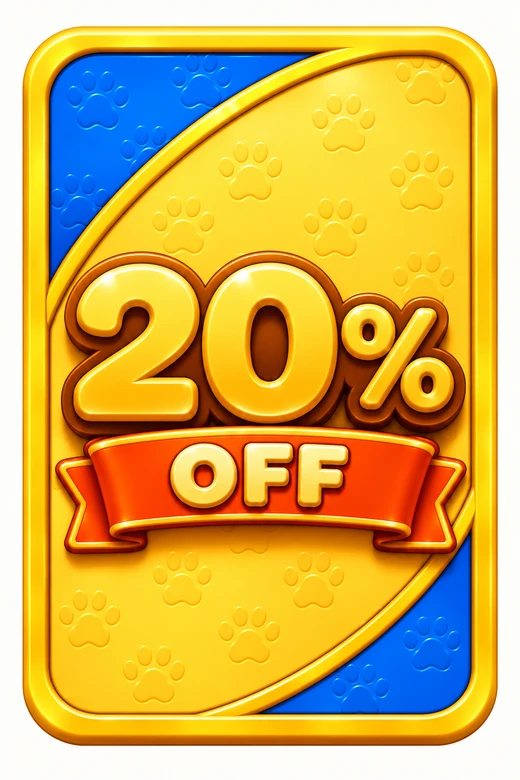
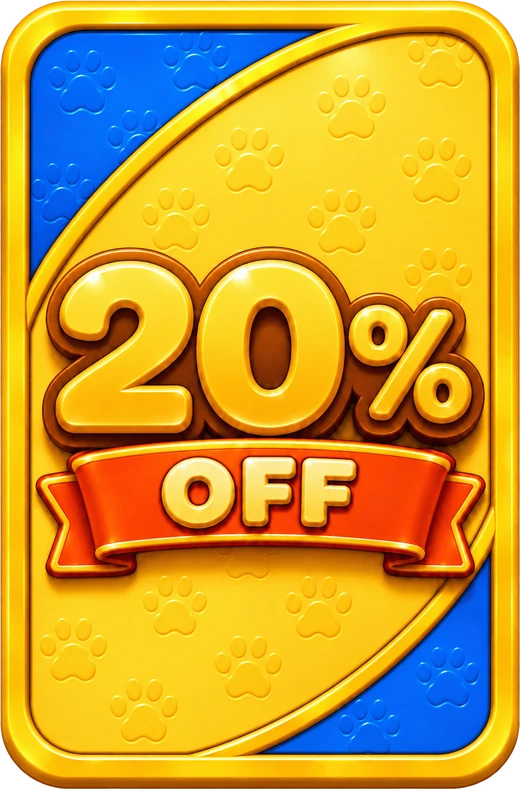
Oferta: planos de 1, 3 e 6 meses (R$ 27/37/47) com selo de cupom aplicado; novas cartas sem fundo

diff --git a/src/components/offer/Paywall.tsx b/src/components/offer/Paywall.tsx
@@ -5,7 +5,7 @@ import { ArrowRight, Check, ChevronDown, ShieldCheck, Tag } from "lucide-react";
 import s from "./Paywall.module.css";
 import { useFunnel } from "@/lib/store";
 import { OFFER, type PlanConfig } from "@/config/offer";
-import { brlNumber, brl, chargedPrice, couponActive, linePrice, perDay } from "@/lib/pricing";
+import { brl, chargedPrice } from "@/lib/pricing";
 import { withTracking } from "@/lib/utm";
 import { track } from "../MetaPixel";
 
@@ -129,7 +129,8 @@ export function Paywall() {
     if (f.ready) track("ViewContent", { content_name: "oferta" });
   }, [f.ready]);
 
-  const active = couponActive(coupon, now, OFFER.countdown.enforce);
+  // The Greenn checkout links only carry the discounted price, so the page always shows it.
+  const active = true;
   const remaining = coupon?.expiresAt ? coupon.expiresAt - now : null;
   const [mm, ss] = mmss(remaining ?? OFFER.countdown.minutes * 60_000);
   const showTimer = OFFER.countdown.enabled && !!coupon;
@@ -182,7 +183,8 @@ export function Paywall() {
       <div className={s.options} role="radiogroup" aria-label="Planos">
         {plans.map((p) => {
           const isSel = p.id === selected.id;
-          const line = linePrice(p, active);
+          const price = chargedPrice(p, active);
+          const [whole, cents] = price.toFixed(2).split(".");
           return (
             <button
               key={p.id}
@@ -192,24 +194,33 @@ export function Paywall() {
               className={`${s.option} ${p.mostPopular ? s.optionPopular : ""} ${isSel ? s.optionSelected : ""}`}
               onClick={() => {
                 f.setPlan(p.id);
-                track("AddToCart", { content_name: p.title, value: chargedPrice(p, active), currency: OFFER.currency });
+                track("AddToCart", { content_name: p.title, value: price, currency: OFFER.currency });
               }}
             >
               {p.mostPopular && <span className={s.bestOffer}>O mais popular</span>}
               <span className={s.radio}>{isSel && <Check size={14} color="#fff" strokeWidth={3.5} />}</span>
               <span className={s.priceWrapper}>
                 <span className={s.priceTitle}>{p.title}</span>
-                <span className={s.price}>
-                  {active && <s>{brl(line.full)}</s>} {brl(line.now)}
-                </span>
-                {p.periodLabel && <span className={s.period}>{p.periodLabel}</span>}
+                {active && (
+                  <span className={s.couponBadge}>
+                    <Check size={12} strokeWidth={3.5} />
+                    Cupom aplicado
+                    <span className={s.couponOff}>-{OFFER.coupon.percent}%</span>
+                  </span>
+                )}
               </span>
-              <span className={s.priceDay}>
-                <span className={s.priceDayWrapper}>
+              <span className={s.priceTotal}>
+                {active && (
+                  <span className={s.priceFrom}>
+                    De <s>{brl(p.fullPrice)}</s>
+                  </span>
+                )}
+                <span className={s.priceNowRow}>
+                  {active && <span className={s.priceBy}>por</span>}
                   <span className={s.currency}>R$</span>
-                  <span className={s.amount}>{brlNumber(perDay(p, active))}</span>
+                  <span className={s.amount}>{whole}</span>
+                  <span className={s.cents}>,{cents}</span>
                 </span>
-                <span className={s.priceDayText}>por dia</span>
               </span>
             </button>
           );

diff --git a/src/config/offer.ts b/src/config/offer.ts
@@ -61,11 +61,11 @@ export const OFFER = {
   plans: [
     {
       id: "plan7d",
-      title: "Plano de 7 dias",
-      days: 7,
+      title: "Plano de 1 Mês",
+      days: 30,
       weeks: 1,
-      fullPrice: 92.5,
-      discountedPrice: 37,
+      fullPrice: 67.5,
+      discountedPrice: 27,
       periodLabel: null,
       mostPopular: false,
       checkoutUrl: "https://payfast.greenn.com.br/redirect/797602",
@@ -73,24 +73,24 @@ export const OFFER = {
     },
     {
       id: "plan4w",
-      title: "Plano de 4 semanas",
-      days: 28,
-      weeks: 4,
-      fullPrice: 167.5,
-      discountedPrice: 67,
-      periodLabel: "semanalmente",
+      title: "Plano de 3 Meses",
+      days: 90,
+      weeks: 3,
+      fullPrice: 92.5,
+      discountedPrice: 37,
+      periodLabel: null,
       mostPopular: true,
       checkoutUrl: "https://payfast.greenn.com.br/redirect/797603",
       checkoutUrlNoDiscount: "https://payfast.greenn.com.br/redirect/797603",
     },
     {
       id: "plan12w",
-      title: "Plano de 12 semanas",
-      days: 84,
-      weeks: 12,
-      fullPrice: 242.5,
-      discountedPrice: 97,
-      periodLabel: "semanalmente",
+      title: "Plano de 6 Meses",
+      days: 180,
+      weeks: 6,
+      fullPrice: 117.5,
+      discountedPrice: 47,
+      periodLabel: null,
       mostPopular: false,
       checkoutUrl: "https://payfast.greenn.com.br/redirect/797604",
       checkoutUrlNoDiscount: "https://payfast.greenn.com.br/redirect/797604",

diff --git a/src/components/offer/Paywall.module.css b/src/components/offer/Paywall.module.css
@@ -915,3 +915,68 @@
   margin-top: 20px;
   width: 100%;
 }
+
+/* plan card: coupon badge on the left, explicit total on the right */
+.couponBadge {
+  align-items: center;
+  background: #e7f7ee;
+  border: 1.5px solid #3fbf7a;
+  border-radius: 999px;
+  color: #138a4e;
+  display: inline-flex;
+  font-family: var(--font-rounded);
+  font-size: 11.5px;
+  font-weight: 800;
+  gap: 4px;
+  letter-spacing: 0.1px;
+  line-height: 14px;
+  margin-top: 6px;
+  padding: 3px 4px 3px 7px;
+  white-space: nowrap;
+}
+.couponOff {
+  background: #ff3b1f;
+  border-radius: 999px;
+  color: #fff;
+  font-size: 11px;
+  line-height: 14px;
+  padding: 1px 6px;
+}
+.priceTotal {
+  align-items: flex-end;
+  display: flex;
+  flex: none;
+  flex-direction: column;
+  justify-content: center;
+}
+.priceFrom {
+  color: var(--text-2);
+  font-size: 12.5px;
+  font-weight: 500;
+  line-height: 16px;
+}
+.priceFrom s {
+  text-decoration-color: #ff3b1f;
+  text-decoration-thickness: 1.5px;
+}
+.priceNowRow {
+  align-items: flex-start;
+  display: flex;
+  line-height: 1;
+}
+.priceBy {
+  align-self: center;
+  color: var(--text-2);
+  font-size: 12px;
+  font-weight: 600;
+  margin-right: 4px;
+}
+.cents {
+  font-family: var(--font-rounded);
+  font-size: 18px;
+  font-weight: 800;
+  line-height: 25px;
+}
+.optionSelected .cents {
+  color: var(--brand-primary);
+}

diff --git a/tests/logic.test.ts b/tests/logic.test.ts
@@ -123,8 +123,9 @@ test("coupon is named after the dog", () => {
   assert.equal(couponCode(A(), now), "ShihTzu_out26");
 });
 
-test("plans: R$ 37 / 67 / 97 and the longer plan has the lower daily price", () => {
+test("plans: 1 mês R$ 27, 3 meses R$ 37, 6 meses R$ 47 (60% off the full price)", () => {
   const [a, b, c] = OFFER.plans;
-  assert.deepEqual([a.discountedPrice, b.discountedPrice, c.discountedPrice], [37, 67, 97]);
-  assert.ok(perDay(a, true) > perDay(b, true) && perDay(b, true) > perDay(c, true));
+  assert.deepEqual([a.title, b.title, c.title], ["Plano de 1 Mês", "Plano de 3 Meses", "Plano de 6 Meses"]);
+  assert.deepEqual([a.discountedPrice, b.discountedPrice, c.discountedPrice], [27, 37, 47]);
+  assert.deepEqual([a.fullPrice, b.fullPrice, c.fullPrice], [67.5, 92.5, 117.5]);
 });
